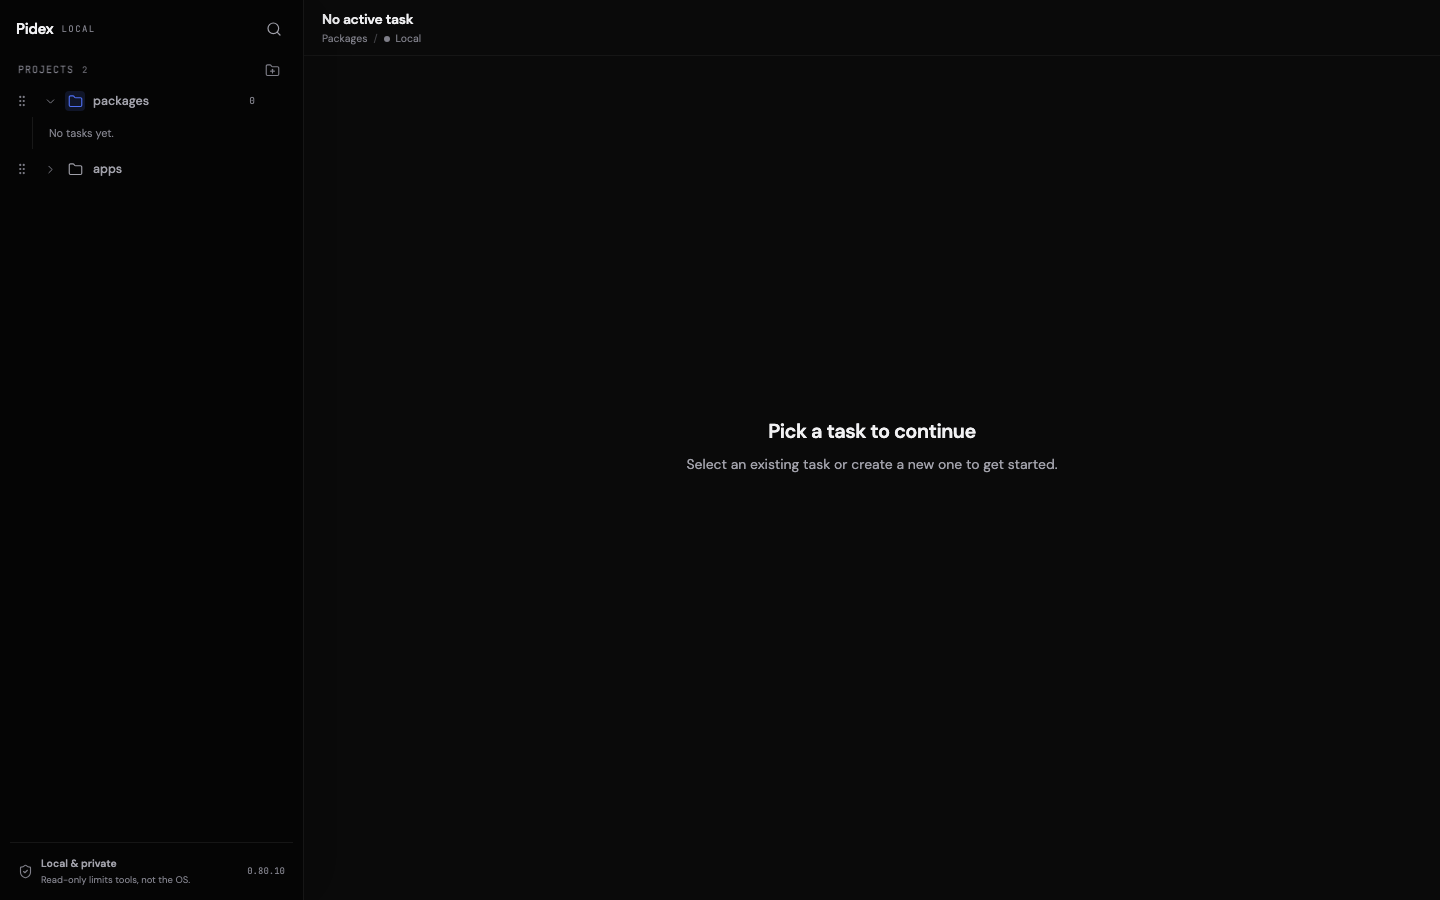
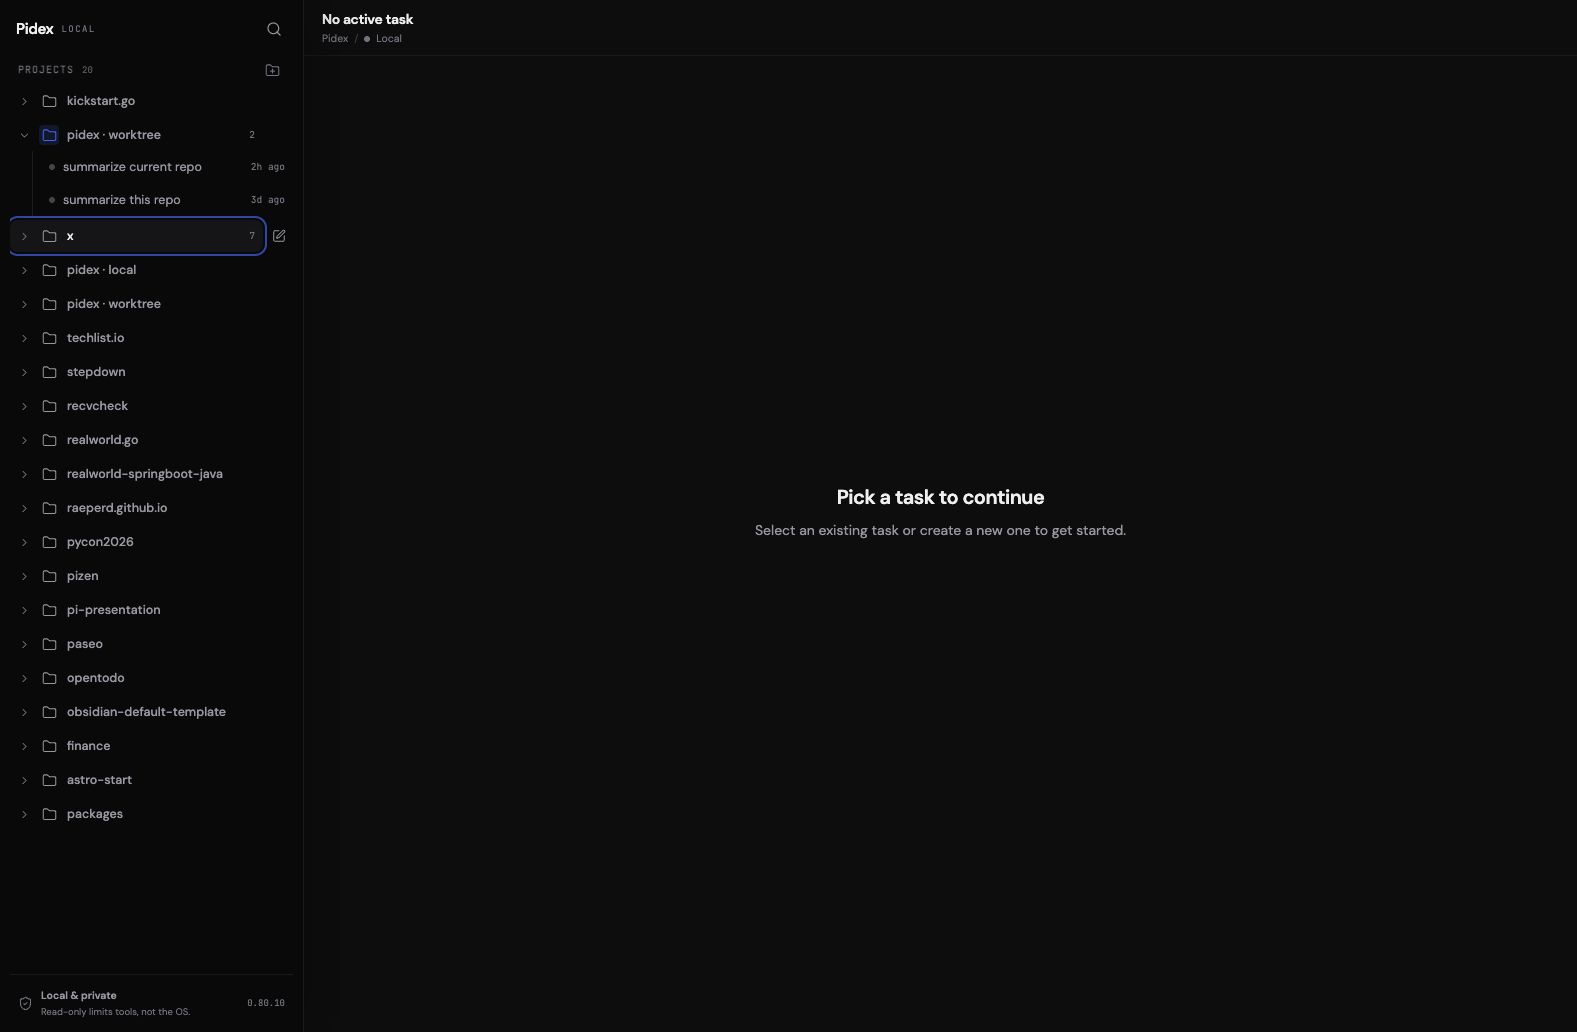
Make project rows directly draggable

diff --git a/e2e/app.spec.ts b/e2e/app.spec.ts
@@ -61,27 +61,29 @@ test("manually reorders projects and preserves their order after reload", async 
 
   await page.goto("/");
   await openTasks(page);
+  const projects = page.getByRole("navigation", { name: "Projects" });
   const projectOrder = () =>
-    page
-      .getByRole("button", { name: /^Reorder / })
-      .evaluateAll((buttons) => buttons.map((button) => button.getAttribute("aria-label")));
-  await expect.poll(projectOrder).toEqual(["Reorder apps", "Reorder packages"]);
+    projects
+      .getByRole("group")
+      .evaluateAll((groups) => groups.map((group) => group.getAttribute("aria-label")));
+  await expect.poll(projectOrder).toEqual(["apps project", "packages project"]);
+  await expect(page.getByRole("button", { name: /^Reorder / })).toHaveCount(0);
 
-  const packagesHandle = page.getByRole("button", { name: "Reorder packages" });
-  await packagesHandle.focus();
-  await packagesHandle.press("ArrowUp");
-  await expect(packagesHandle).toBeFocused();
-  await expect.poll(projectOrder).toEqual(["Reorder packages", "Reorder apps"]);
-  await expect(packagesHandle).toHaveAttribute("aria-disabled", "false");
-  await packagesHandle.press("ArrowDown");
-  await expect.poll(projectOrder).toEqual(["Reorder apps", "Reorder packages"]);
+  const packagesRow = page.getByRole("button", { name: /^(Collapse|Expand) packages$/ });
+  await packagesRow.focus();
+  await packagesRow.press("ArrowUp");
+  await expect(packagesRow).toBeFocused();
+  await expect.poll(projectOrder).toEqual(["packages project", "apps project"]);
+  await expect(page.getByLabel("Add project", { exact: true })).toBeEnabled();
+  await packagesRow.press("ArrowDown");
+  await expect.poll(projectOrder).toEqual(["apps project", "packages project"]);
 
-  await packagesHandle.dragTo(page.getByRole("button", { name: /^(Collapse|Expand) apps$/ }));
+  await packagesRow.dragTo(page.getByRole("button", { name: /^(Collapse|Expand) apps$/ }));
 
-  await expect.poll(projectOrder).toEqual(["Reorder packages", "Reorder apps"]);
+  await expect.poll(projectOrder).toEqual(["packages project", "apps project"]);
   await page.reload();
   await openTasks(page);
-  await expect.poll(projectOrder).toEqual(["Reorder packages", "Reorder apps"]);
+  await expect.poll(projectOrder).toEqual(["packages project", "apps project"]);
 });
 
 test("blocks project additions while saving the manual order", async ({ page, request }) => {
@@ -125,7 +127,7 @@ test("blocks project additions while saving the manual order", async ({ page, re
 
   await page.goto("/");
   await openTasks(page);
-  await page.getByRole("button", { name: "Reorder packages" }).press("ArrowUp");
+  await page.getByRole("button", { name: /^(Collapse|Expand) packages$/ }).press("ArrowUp");
   await expect.poll(() => reorderStarted).toBe(true);
   try {
     await expect(page.getByLabel("Add project", { exact: true })).toBeDisabled();
@@ -187,9 +189,10 @@ test("reconciles the manual order when adding project 101", async ({ page, reque
   await page.getByLabel("Add project", { exact: true }).click();
   await page.getByRole("button", { name: "Add new-project", exact: true }).click();
 
-  await expect(page.getByRole("button", { name: /^Reorder / })).toHaveCount(100);
-  await expect(page.getByRole("button", { name: "Reorder project-000" })).toHaveCount(0);
-  await expect(page.getByRole("button", { name: "Reorder packages" })).toBeVisible();
+  const projects = page.getByRole("navigation", { name: "Projects" });
+  await expect(projects.getByRole("group")).toHaveCount(100);
+  await expect(projects.getByRole("group", { name: "project-000 project" })).toHaveCount(0);
+  await expect(projects.getByRole("group", { name: "packages project" })).toBeVisible();
   expect(bootstrapCalls).toBe(2);
 });
 
@@ -243,9 +246,10 @@ test("keeps Add all within the 100-project sidebar boundary", async ({ page, req
   await page.getByLabel("Add project", { exact: true }).click();
   await page.getByRole("button", { name: "Add all", exact: true }).click();
 
-  await expect(page.getByRole("button", { name: /^Reorder / })).toHaveCount(100);
-  await expect(page.getByRole("button", { name: "Reorder project-000" })).toHaveCount(0);
-  await expect(page.getByRole("button", { name: "Reorder project-001" })).toBeVisible();
+  const projectsNav = page.getByRole("navigation", { name: "Projects" });
+  await expect(projectsNav.getByRole("group")).toHaveCount(100);
+  await expect(projectsNav.getByRole("group", { name: "project-000 project" })).toHaveCount(0);
+  await expect(projectsNav.getByRole("group", { name: "project-001 project" })).toBeVisible();
   expect(bootstrapCalls).toBe(2);
 });
 

diff --git a/apps/web/src/App.svelte b/apps/web/src/App.svelte
@@ -1095,7 +1095,7 @@
       <nav
         class="min-h-0 flex-1 overflow-y-auto pt-px pb-2 [scrollbar-color:var(--border-strong)_transparent] [scrollbar-width:thin]"
         aria-label="Projects"
-        aria-busy={chatLoading || projectLoading}
+        aria-busy={chatLoading || projectLoading || projectOrderSaving}
       >
         {#if visibleProjects.length === 0}
           <div class="flex flex-col items-center gap-2 px-4.5 py-7 text-center text-faint">
@@ -1133,11 +1133,11 @@
             >
               <div class="group flex min-w-0 items-center gap-0.5">
                 <button
-                  class="grid size-6 flex-none cursor-grab place-items-center rounded-md border-0 bg-transparent text-faint transition-colors hover:bg-sidebar-hover hover:text-foreground active:cursor-grabbing aria-disabled:cursor-not-allowed aria-disabled:opacity-40"
+                  class={`flex h-8 min-w-0 flex-1 cursor-grab items-center gap-2 rounded-lg border-0 bg-transparent px-2 text-left text-muted transition-colors duration-150 group-focus-within:bg-sidebar-hover group-focus-within:text-foreground hover:bg-sidebar-hover hover:text-foreground active:cursor-grabbing ${workspace?.id === project.id ? "text-foreground" : ""}`}
                   draggable={!projectOrderSaving}
-                  aria-disabled={projectOrderSaving}
-                  aria-label={`Reorder ${projectLabel(project)}`}
-                  title="Drag to reorder projects; use arrow keys for precise movement"
+                  aria-expanded={expanded}
+                  aria-label={`${expanded ? "Collapse" : "Expand"} ${projectLabel(project)}`}
+                  title={`${projectLabel(project)} — drag to reorder; use arrow keys for precise movement`}
                   ondragstart={(event) => startProjectDrag(event, project.id)}
                   ondragend={finishProjectDrag}
                   onkeydown={(event) => {
@@ -1145,14 +1145,6 @@
                     event.preventDefault();
                     moveProjectBy(project.id, event.key === "ArrowUp" ? -1 : 1);
                   }}
-                >
-                  <Icon name="grip" size={14} />
-                </button>
-                <button
-                  class={`flex h-8 min-w-0 flex-1 items-center gap-2 rounded-lg border-0 bg-transparent px-2 text-left text-muted transition-colors duration-150 group-focus-within:bg-sidebar-hover group-focus-within:text-foreground hover:bg-sidebar-hover hover:text-foreground ${workspace?.id === project.id ? "text-foreground" : ""}`}
-                  aria-expanded={expanded}
-                  aria-label={`${expanded ? "Collapse" : "Expand"} ${projectLabel(project)}`}
-                  title={projectLabel(project)}
                   onclick={() => toggleProject(project)}
                 >
                   <span
